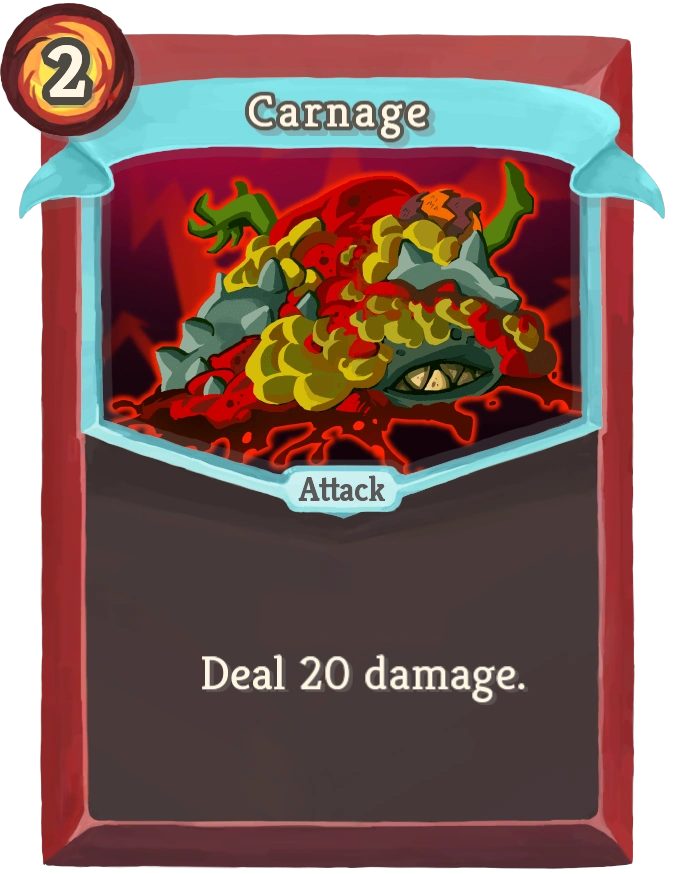
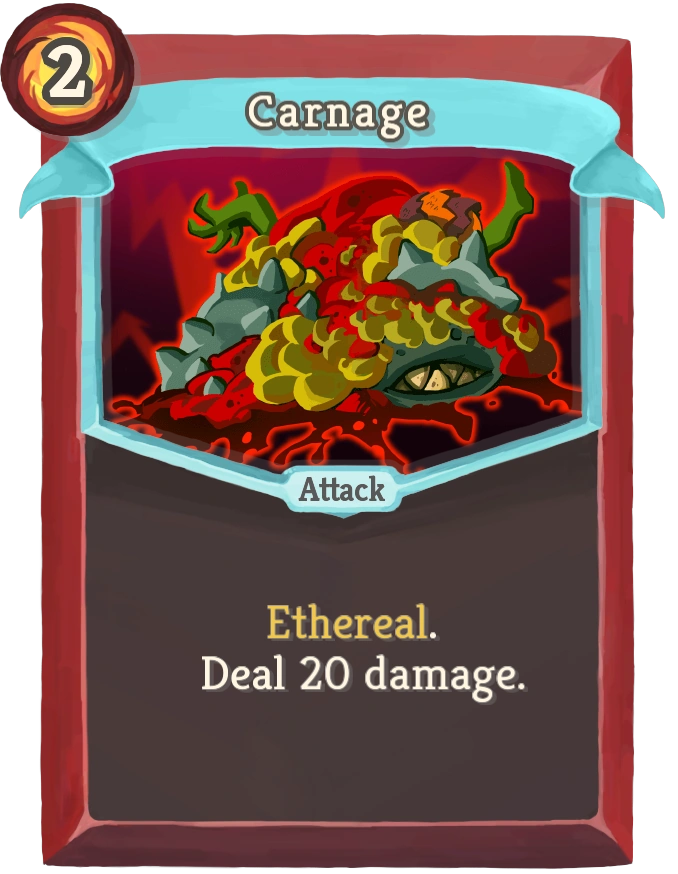
fixed #72, fixed #74

Changed region(s): [[0.3717, 0.6796, 0.6504, 0.7414]]

diff --git a/src/main/java/de/bundeswehr/auf/slaythespire/model/battle/BattleDeck.java b/src/main/java/de/bundeswehr/auf/slaythespire/model/battle/BattleDeck.java
@@ -20,17 +20,17 @@ import java.util.Random;
  *
  * @author Warawa Alexander, Willig Daniel
  */
-public class BattleDeck implements CardEventListener{
+public class BattleDeck implements CardEventListener {
 
     private static final Random rnd = new Random();
 
     private BattleDeckListener battleDeckListener;
-    private final List<TriggeredCard> triggeredCards;
     private final List<Card> deck;
     private final List<Card> discardPile;
     private final List<Card> exhaustPile;
     private final List<Card> hand;
     private final int startHandSize;
+    private final List<TriggeredCard> triggeredCards;
 
     /**
      * Konstruktor für die BattleDeck-Klasse.
@@ -141,13 +141,11 @@ public class BattleDeck implements CardEventListener{
             if (deck.isEmpty()) {
                 break;
             }
-            hand.add(deck.remove(deck.size() - 1)); // zieht von oben
+            Card card = deck.remove(deck.size() - 1); // zieht von oben
+            battleDeckListener.onCardDrawn(card);
+            hand.add(card);
         }
         battleDeckListener.onCardFill();
-    }
-
-    public List<TriggeredCard> getTriggeredCards() {
-        return triggeredCards;
     }
 
     public List<Card> getDeck() {
@@ -187,6 +185,10 @@ public class BattleDeck implements CardEventListener{
         return cards;
     }
 
+    public List<TriggeredCard> getTriggeredCards() {
+        return triggeredCards;
+    }
+
     @Override
     public void onCardClick(Card card) {
         battleDeckListener.onCardClick(card);
@@ -194,6 +196,7 @@ public class BattleDeck implements CardEventListener{
 
     /**
      * Entfernt eine Karte aus dem Abhebestapel
+     *
      * @param card Die zu entfernende Karte
      */
     public void removeCardFromDeck(Card card) {
@@ -226,16 +229,6 @@ public class BattleDeck implements CardEventListener{
         }
     }
 
-    /**
-     * Fülle den Abhebestapel durch die abgelegten Karten.
-     */
-    private void resetDeckFromDiscardPile() {
-        if (deck.isEmpty() && !discardPile.isEmpty()) {
-            deck.addAll(discardPile);
-            discardPile.clear();
-        }
-    }
-
     public void setBattleDeckListener(BattleDeckListener battleDeckListener) {
         this.battleDeckListener = battleDeckListener;
     }
@@ -249,4 +242,15 @@ public class BattleDeck implements CardEventListener{
                 "exhaustPile=" + exhaustPile + "\n" +
                 "triggeredCards=" + triggeredCards;
     }
+
+    /**
+     * Fülle den Abhebestapel durch die abgelegten Karten.
+     */
+    private void resetDeckFromDiscardPile() {
+        if (deck.isEmpty() && !discardPile.isEmpty()) {
+            deck.addAll(discardPile);
+            discardPile.clear();
+        }
+    }
+
 }

diff --git a/src/main/java/de/bundeswehr/auf/slaythespire/controller/BattleController.java b/src/main/java/de/bundeswehr/auf/slaythespire/controller/BattleController.java
@@ -100,6 +100,13 @@ public class BattleController implements Controller, BattleViewEvents, PlayerEve
     }
 
     @Override
+    public void onCardDrawn(Card card) {
+        if (card instanceof StatusCard) {
+            ((StatusCard) card).onDraw(gameContext);
+        }
+    }
+
+    @Override
     public void onCardDeath(Card card) {
         if (card instanceof AttackCard) {
             triggerPowerCards(CardTrigger.PLAY_ATTACK);
@@ -229,6 +236,7 @@ public class BattleController implements Controller, BattleViewEvents, PlayerEve
             case EXHAUST:
                 battleDeck.exhaustCardFromHand(card);
                 break;
+            case ETHEREAL:
             case DISCARD:
                 battleDeck.discardCardFromHand(card);
                 break;
@@ -308,9 +316,9 @@ public class BattleController implements Controller, BattleViewEvents, PlayerEve
 
     private void playerEOT() {
         removeHandAfterEndOfTurn();
-        battleDeck.removeNonPowerCards();
 
         triggerPowerCards(CardTrigger.PLAYER_EOT);
+        battleDeck.removeNonPowerCards();
     }
 
     // Block hält nur 1. Runde an.
@@ -327,7 +335,13 @@ public class BattleController implements Controller, BattleViewEvents, PlayerEve
     private void removeHandAfterEndOfTurn() {
         int size = battleDeck.getHand().size();
         for (int i = 0; i < size; i++) {
-            battleDeck.discardCardFromHand(battleDeck.getHand().get(0));
+            Card card = battleDeck.getHand().get(0);
+            if (card.getCardGrave() == CardGrave.ETHEREAL) {
+                battleDeck.exhaustCardFromHand(card);
+            }
+            else {
+                battleDeck.discardCardFromHand(card);
+            }
         }
     }
 

diff --git a/src/main/java/de/bundeswehr/auf/slaythespire/model/card/status/BurnCard.java b/src/main/java/de/bundeswehr/auf/slaythespire/model/card/status/BurnCard.java
@@ -1,0 +1,39 @@
+package de.bundeswehr.auf.slaythespire.model.card.status;
+
+import de.bundeswehr.auf.slaythespire.helper.PathAssistent;
+import de.bundeswehr.auf.slaythespire.model.battle.BattleDeck;
+import de.bundeswehr.auf.slaythespire.model.battle.GameContext;
+import de.bundeswehr.auf.slaythespire.model.card.structure.CardGrave;
+import de.bundeswehr.auf.slaythespire.model.card.structure.CardTrigger;
+import de.bundeswehr.auf.slaythespire.model.card.structure.TriggeredCard;
+import de.bundeswehr.auf.slaythespire.model.card.structure.UnplayableCard;
+import de.bundeswehr.auf.slaythespire.model.player.structure.Player;
+
+public class BurnCard extends UnplayableCard implements TriggeredCard {
+
+    private final CardTrigger cardTrigger;
+
+    public BurnCard() {
+        super("Burn", "Unplayable. At the end of your turn, take 2 damage.", CardGrave.DISCARD);
+        setImagePath(new PathAssistent().toPath(this));
+        this.cardTrigger = CardTrigger.PLAYER_EOT;
+    }
+
+    @Override
+    public CardTrigger getTrigger() {
+        return cardTrigger;
+    }
+
+    @Override
+    public void onDraw(GameContext gameContext) {
+        BattleDeck battleDeck = gameContext.getBattleDeck();
+        battleDeck.addTriggeredCard(this);
+    }
+
+    @Override
+    public void onTrigger(GameContext gameContext) {
+        Player player = gameContext.getPlayer();
+        player.dealDamage(gameContext, 2, player, this);
+    }
+
+}

diff --git a/src/main/java/de/bundeswehr/auf/slaythespire/model/potion/uncommon/DistilledChaosPotion.java b/src/main/java/de/bundeswehr/auf/slaythespire/model/potion/uncommon/DistilledChaosPotion.java
@@ -44,14 +44,16 @@ public class DistilledChaosPotion extends SkillPotion implements CardDeathListen
     @Override
     public void onCardDeath(Card card) {
         BattleDeck battleDeck = gameContext.getBattleDeck();
-        if (card.getCardGrave().equals(CardGrave.EXHAUST)) {
-            battleDeck.exhaustCardFromDeck(card);
-        }
-        else if (card.getCardGrave().equals(CardGrave.DISCARD)) {
-            battleDeck.discardCardFromDeck(card);
-        }
-        else {
-            battleDeck.removeCardFromDeck(card);
+        switch (card.getCardGrave()) {
+            case EXHAUST:
+                battleDeck.exhaustCardFromDeck(card);
+                break;
+            case ETHEREAL:
+            case DISCARD:
+                battleDeck.discardCardFromDeck(card);
+                break;
+            default:
+                battleDeck.removeCardFromDeck(card);
         }
         if (card == cards.poll() && !endOfCombat()) {
             play(cards.peek());

diff --git a/src/main/java/de/bundeswehr/auf/slaythespire/model/card/status/VoidCard.java b/src/main/java/de/bundeswehr/auf/slaythespire/model/card/status/VoidCard.java
@@ -1,0 +1,22 @@
+package de.bundeswehr.auf.slaythespire.model.card.status;
+
+import de.bundeswehr.auf.slaythespire.helper.PathAssistent;
+import de.bundeswehr.auf.slaythespire.model.battle.GameContext;
+import de.bundeswehr.auf.slaythespire.model.card.structure.CardGrave;
+import de.bundeswehr.auf.slaythespire.model.card.structure.UnplayableCard;
+import de.bundeswehr.auf.slaythespire.model.player.structure.Player;
+
+public class VoidCard extends UnplayableCard {
+
+    public VoidCard() {
+        super("Void", "Unplayable. When this card is drawn, lose 1 Energy. Ethereal.", CardGrave.ETHEREAL);
+        setImagePath(new PathAssistent().toPath(this));
+    }
+
+    @Override
+    public void onDraw(GameContext gameContext) {
+        Player player = gameContext.getPlayer();
+        player.decreaseCurrentEnergy(1);
+    }
+
+}

diff --git a/src/main/java/de/bundeswehr/auf/slaythespire/model/card/structure/UnplayableCard.java b/src/main/java/de/bundeswehr/auf/slaythespire/model/card/structure/UnplayableCard.java
@@ -1,0 +1,25 @@
+package de.bundeswehr.auf.slaythespire.model.card.structure;
+
+import de.bundeswehr.auf.slaythespire.model.battle.GameContext;
+import de.bundeswehr.auf.slaythespire.model.battle.Playable;
+
+public abstract class UnplayableCard extends StatusCard {
+
+    private final Playable notPlayable;
+
+    public UnplayableCard(String name, String description, CardGrave cardGrave) {
+        super(name, description, -1, cardGrave);
+        notPlayable = new Playable(name + " is Unplayable", "Card cannot be played.");
+    }
+
+    @Override
+    public void play(GameContext gameContext) {
+        throw new IllegalStateException(getName() + " is Unplayable");
+    }
+
+    @Override
+    public Playable isPlayable(GameContext gameContext) {
+        return notPlayable;
+    }
+
+}

diff --git a/src/main/java/de/bundeswehr/auf/slaythespire/model/card/status/SlimedCard.java b/src/main/java/de/bundeswehr/auf/slaythespire/model/card/status/SlimedCard.java
@@ -1,0 +1,21 @@
+package de.bundeswehr.auf.slaythespire.model.card.status;
+
+import de.bundeswehr.auf.slaythespire.helper.PathAssistent;
+import de.bundeswehr.auf.slaythespire.model.battle.GameContext;
+import de.bundeswehr.auf.slaythespire.model.card.structure.CardGrave;
+import de.bundeswehr.auf.slaythespire.model.card.structure.StatusCard;
+import de.bundeswehr.auf.slaythespire.model.card.structure.UnplayableCard;
+
+public class SlimedCard extends StatusCard {
+
+    public SlimedCard() {
+        super("Slimed", "Exhaust.", 1, CardGrave.EXHAUST);
+        setImagePath(new PathAssistent().toPath(this));
+    }
+
+    @Override
+    public void play(GameContext gameContext) {
+
+    }
+
+}

diff --git a/src/main/java/de/bundeswehr/auf/slaythespire/model/card/structure/StatusCard.java b/src/main/java/de/bundeswehr/auf/slaythespire/model/card/structure/StatusCard.java
@@ -1,11 +1,13 @@
 package de.bundeswehr.auf.slaythespire.model.card.structure;
 
+import de.bundeswehr.auf.slaythespire.model.battle.GameContext;
+
 public abstract class StatusCard extends Card {
 
-    public StatusCard(String name, String description, int cost, CardRarity rarity, CardGrave cardGrave) {
-        super(name, description, cost, rarity, cardGrave);
+    public StatusCard(String name, String description, int cost, CardGrave cardGrave) {
+        super(name, description, cost, CardRarity.SPECIAL, cardGrave);
     }
 
-    public abstract int doStatus();
+    public void onDraw(GameContext gameContext) {}
 
 }

diff --git a/src/main/java/de/bundeswehr/auf/slaythespire/model/card/status/DazedCard.java b/src/main/java/de/bundeswehr/auf/slaythespire/model/card/status/DazedCard.java
@@ -1,0 +1,14 @@
+package de.bundeswehr.auf.slaythespire.model.card.status;
+
+import de.bundeswehr.auf.slaythespire.helper.PathAssistent;
+import de.bundeswehr.auf.slaythespire.model.card.structure.CardGrave;
+import de.bundeswehr.auf.slaythespire.model.card.structure.UnplayableCard;
+
+public class DazedCard extends UnplayableCard {
+
+    public DazedCard() {
+        super("Dazed", "Unplayable. Ethereal.", CardGrave.ETHEREAL);
+        setImagePath(new PathAssistent().toPath(this));
+    }
+
+}

diff --git a/src/main/java/de/bundeswehr/auf/slaythespire/model/card/status/WoundCard.java b/src/main/java/de/bundeswehr/auf/slaythespire/model/card/status/WoundCard.java
@@ -1,0 +1,14 @@
+package de.bundeswehr.auf.slaythespire.model.card.status;
+
+import de.bundeswehr.auf.slaythespire.helper.PathAssistent;
+import de.bundeswehr.auf.slaythespire.model.card.structure.CardGrave;
+import de.bundeswehr.auf.slaythespire.model.card.structure.UnplayableCard;
+
+public class WoundCard extends UnplayableCard {
+
+    public WoundCard() {
+        super("Wound", "Unplayable.", CardGrave.DISCARD);
+        setImagePath(new PathAssistent().toPath(this));
+    }
+
+}

diff --git a/src/main/java/de/bundeswehr/auf/slaythespire/gui/BattleView.java b/src/main/java/de/bundeswehr/auf/slaythespire/gui/BattleView.java
@@ -112,6 +112,11 @@ public class BattleView extends BorderPane implements View, WithTopBar, BattleDe
         popup.show(center.getScene().getWindow(), bounds.getMinX() - centerCard.getBoundsInLocal().getWidth() / 2, bounds.getMinY());
     }
 
+    @Override
+    public void onCardDrawn(Card card) {
+        battleViewEvents.onCardDrawn(card);
+    }
+
     public void clickedOnCard(Card card, int index) {
         if (card == null) {
             mode.set(Mode.NORMAL);

diff --git a/src/main/java/de/bundeswehr/auf/slaythespire/model/card/ironclad/attack/uncommon/CarnageCard.java b/src/main/java/de/bundeswehr/auf/slaythespire/model/card/ironclad/attack/uncommon/CarnageCard.java
@@ -16,7 +16,7 @@ public class CarnageCard extends AttackCard {
      * Constructor Carnage card.
      */
     public CarnageCard() {
-        super("Carnage", "Deal 20 damage.", 2, 20, CardRarity.UNCOMMON, CardGrave.DISCARD);
+        super("Carnage", "Deal 20 damage.", 2, 20, CardRarity.UNCOMMON, CardGrave.ETHEREAL);
         setImagePath(new PathAssistent().toPath(this));
     }
 
